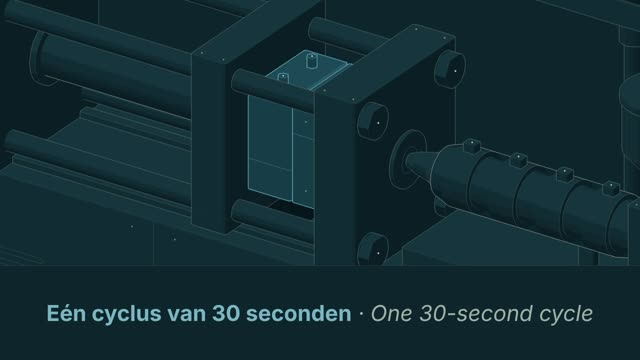
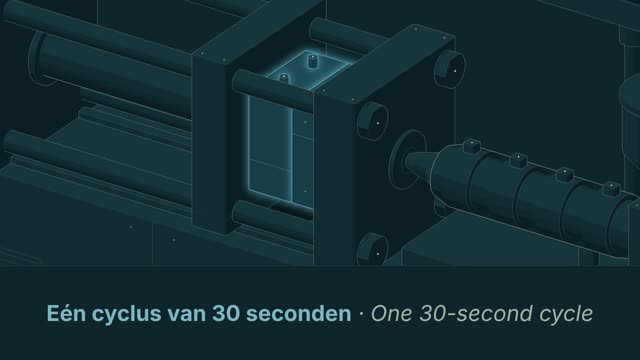
Re-render eng.moulding.cycle with the rebuilt narration (nl_NL-alex 1.27, en_GB-alan 0.92)
Listen guard passes on both MP4s; no narration change (HTML rebuilt with the current kit).

Claude-Session: https://claude.ai/code/session_01PaYhcPLcev1C988oo7C5iG

Changed region(s): [[0.375, 0.275, 0.5, 0.6111], [0.4375, 0.1222, 0.5625, 0.2444], [0.4062, 0.1833, 0.4375, 0.2139]]

diff --git a/src/content/courses/films/eng.moulding.cycle.html b/src/content/courses/films/eng.moulding.cycle.html
@@ -346,11 +346,14 @@ const saidOf = (seg) => seg.map((p) => (typeof p === 'string' ? p : p.t)).join('
 // length of each beat's recorded line (s). Each scene opens with a short look
 // before the first line (the film itself with a longer lead), lines follow with
 // a breath in between, and a scene holds a moment after its last line.
-// The pauses of the narration, all in one place (seconds). Each phrase (up to
-// a comma) and sentence is recorded as its own clip (films/_kit/narrate.mjs):
-// comma after a phrase, sentence after a full stop, beat between two lines.
-const PAUSES = { comma: 0.2, sentence: 0.55, beat: 0.9 };
-const AUDIO_GAPS = { lead: 0.8, look: 0.4, gap: PAUSES.beat, hold: 0.8, tail: 1.6 };
+// The pauses of the narration, all in one place (seconds). Each sentence is one
+// Piper clip (films/_kit/narrate.mjs), commas inside: the voice makes its own
+// comma pause and keeps the sentence melody. Piper's own edge silence is
+// trimmed to about 40 ms (films/_kit/speak.py), so these are the pauses heard:
+// sentence after a full stop, beat between two lines, hold at a scene's end.
+// The listen guard (films/_kit/listen-guard.mjs) checks them on the render.
+const PAUSES = { sentence: 0.6, beat: 0.9, hold: 0.8 };
+const AUDIO_GAPS = { lead: 0.8, look: 0.4, gap: PAUSES.beat, hold: PAUSES.hold, tail: 1.6 };
 function audioTimeline(durs, gaps = AUDIO_GAPS) {
   const g = { ...AUDIO_GAPS, ...gaps };
   const scenes = [];
